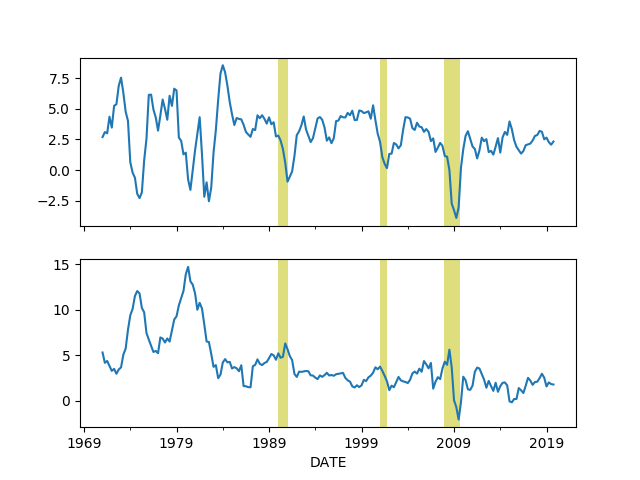
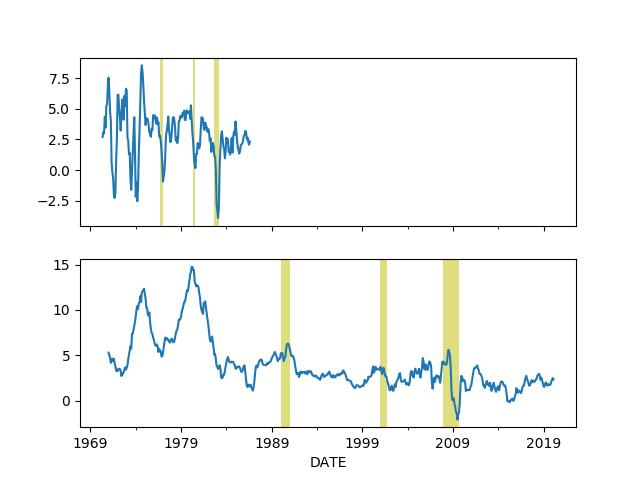
-

diff --git a/en/2019/05/stats.md b/en/2019/05/stats.md
@@ -149,13 +149,10 @@ today = datetime.datetime.now()
 start=datetime.datetime(1970, 1, 1)
 end=datetime.datetime(today.year, today.month, today.day)
 
-df = data.DataReader(['GDPC1','CPIAUCNS'], 'fred', start, end)
-
-df = df.dropna()
-
+df = data.DataReader(['GDPC1'], 'fred', start, end)
 df['gdpyoy'] = (df.GDPC1 - df.GDPC1.shift(4)) / df.GDPC1.shift(4) * 100.0
 
-df['infyoy'] = (df.CPIAUCNS - df.CPIAUCNS.shift(4)) / df.CPIAUCNS.shift(4) * 100.0
+print (df[['gdpyoy']].tail(6))
 
 fig, axs = plt.subplots(2,sharex=True)
 
@@ -165,13 +162,17 @@ axs[0].axvspan('01-09-1990', '01-07-1991', color='y', alpha=0.5, lw=0)
 axs[0].axvspan('01-03-2001', '27-10-2001', color='y', alpha=0.5, lw=0)
 axs[0].axvspan('22-12-2007', '09-05-2009', color='y', alpha=0.5, lw=0)
 
+df = data.DataReader(['CPIAUCNS'], 'fred', start, end)
+
+df['infyoy'] = (df.CPIAUCNS - df.CPIAUCNS.shift(12)) / df.CPIAUCNS.shift(12) * 100.0
+
 df['infyoy'].plot(ax=axs[1])
 
 axs[1].axvspan('01-09-1990', '01-07-1991', color='y', alpha=0.5, lw=0)
 axs[1].axvspan('01-03-2001', '27-10-2001', color='y', alpha=0.5, lw=0)
 axs[1].axvspan('22-12-2007', '09-05-2009', color='y', alpha=0.5, lw=0)
-
-print (df[['gdpyoy','infyoy']].tail(6))
+      
+print (df[['infyoy']].tail(6))
       
 plt.savefig('cycle.png')
 ```
